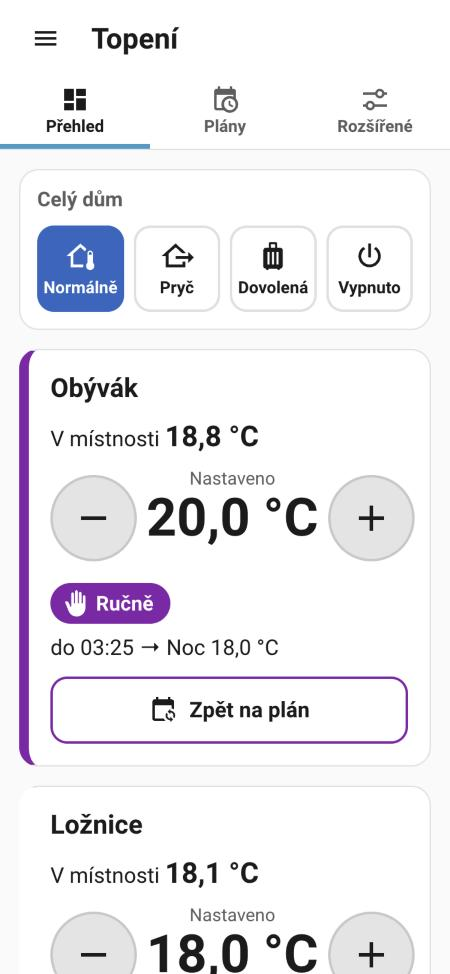
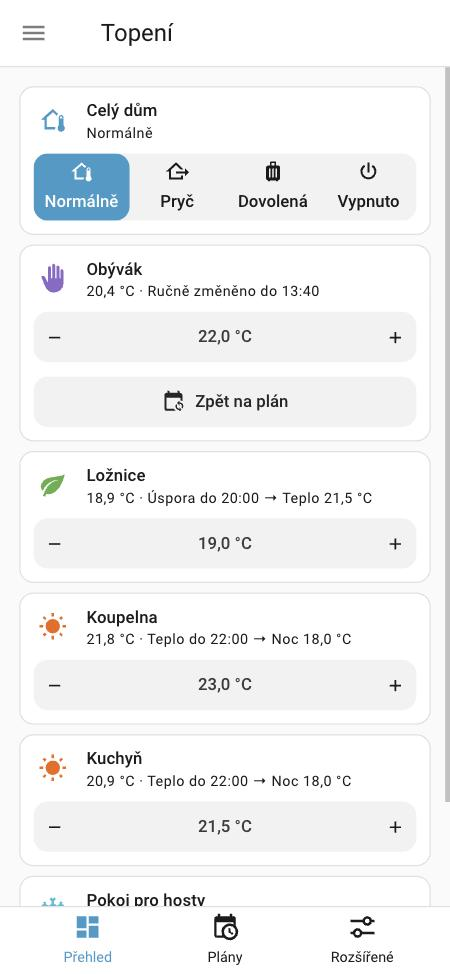
UI step 5: README, screenshots and design notes for the HA look
- New README screenshots (Czech, light theme, phone width) and guide texts
  for the tiles, the problem badge and the Companion app's page zoom.
- Architecture notes record the decisions: HA components, HA's dialog
  manager, the card loader, the element registration, and exact HA sizes
  (a deviation from the spec's 48 px, accepted by the user).
- The dev valves get a fake_trv.set_offline action to show problems.

diff --git a/dev/config/custom_components/fake_trv/climate.py b/dev/config/custom_components/fake_trv/climate.py
@@ -9,8 +9,10 @@ from typing import Any
 from homeassistant.components.climate import ClimateEntity
 from homeassistant.components.climate.const import ClimateEntityFeature, HVACAction, HVACMode
 from homeassistant.const import UnitOfTemperature
-from homeassistant.core import Context, HomeAssistant, callback
-from homeassistant.helpers import area_registry as ar, entity_registry as er
+from homeassistant.core import Context, HomeAssistant, ServiceCall, callback
+import voluptuous as vol
+
+from homeassistant.helpers import area_registry as ar, config_validation as cv, entity_registry as er
 from homeassistant.helpers.entity_platform import AddEntitiesCallback
 from homeassistant.helpers.event import async_call_later, async_track_time_interval
 from homeassistant.helpers.typing import ConfigType, DiscoveryInfoType
@@ -31,6 +33,22 @@ async def async_setup_platform(
             suffix = f"_{index + 1}" if count > 1 else ""
             entities.append(FakeTrv(slug, f"{slug}_hlavice{suffix}"))
     async_add_entities(entities)
+
+    # Simulate a valve that stops answering, e.g. with empty batteries. A domain service,
+    # because HA does not call entity services on unavailable entities.
+    by_id = {entity.entity_id: entity for entity in entities}
+
+    async def set_offline(call: ServiceCall) -> None:
+        for entity_id in call.data["entity_id"]:
+            if entity_id in by_id:
+                by_id[entity_id].set_offline(call.data["offline"])
+
+    hass.services.async_register(
+        DOMAIN,
+        "set_offline",
+        set_offline,
+        schema=vol.Schema({vol.Required("entity_id"): cv.entity_ids, vol.Required("offline"): bool}),
+    )
 
     @callback
     def assign_areas(_now: Any = None) -> None:
@@ -111,6 +129,11 @@ class FakeTrv(ClimateEntity):
             self._attr_target_temperature = value
 
         self._report_later(apply)
+
+    @callback
+    def set_offline(self, offline: bool) -> None:
+        self._attr_available = not offline
+        self.async_write_ha_state()
 
     async def async_set_hvac_mode(self, hvac_mode: HVACMode) -> None:
         def apply() -> None:

diff --git a/README.md b/README.md
@@ -26,6 +26,9 @@ Boiler control, valve positions and temperature sensors of the valves are not to
 
 - Home Assistant 2026.9 or newer.
 - Radiator valves as `climate` entities. Tested with Sonoff TRVZB through Zigbee2MQTT.
+- The panel and the card are built from Home Assistant's own components and look like the
+  rest of Home Assistant. HA changes these components between releases, so after an HA
+  update the panel may need a new release of this integration.
 - Temperatures in the panel, plans, temperature sets and services are always °C. Home
   Assistant itself may use °C or °F; the valves always get the right value.
 
@@ -68,17 +71,17 @@ test mode off.
 
 ## Návod pro každý den (česky)
 
-**Co vidím.** Každá místnost má svou kartu:
+**Co vidím.** Každá místnost má svou dlaždici:
 
-- **V místnosti** je teplota, která v místnosti je teď.
-- Velké číslo je teplota, kterou má místnost mít.
-- Barevný štítek říká, co se děje teď: **Teplo**, **Úspora**, **Noc**, **Pryč**,
+- Pod názvem je teplota v místnosti a co se děje teď a potom, například
+  „20,4 °C · Teplo do 22:00 → Noc 18,0 °C“.
+- Číslo mezi **−** a **+** je teplota, kterou má místnost mít.
+- Barevná ikona vlevo ukazuje režim: **Teplo**, **Úspora**, **Noc**, **Pryč**,
   **Proti mrazu**, **Vypnuto** nebo **Ručně**.
-- Text vedle štítku říká, co přijde potom, například „do 22:00 → Noc 18,0 °C“.
 
 **Chci tepleji nebo chladněji.** Klepněte na **+** nebo **−**. Každé klepnutí je půl stupně.
-Změna platí do další změny v plánu. Karta má pak fialový okraj a štítek **Ručně**.
-Tlačítko **Zpět na plán** změnu hned zruší.
+Změna platí do další změny v plánu. Dlaždice má pak fialovou ikonu ruky a text
+**Ručně změněno**. Tlačítko **Zpět na plán** změnu hned zruší.
 
 **Otočil jsem kolečkem na hlavici.** To je totéž jako **+** nebo **−**. Ostatní hlavice
 v místnosti se nastaví stejně. Po další změně v plánu se vše vrátí samo.
@@ -95,24 +98,31 @@ v místnosti se nastaví stejně. Po další změně v plánu se vše vrátí sa
 Během režimů Pryč, Dovolená a Vypnuto nejde teplota v místnosti měnit. Nejdřív přepněte dům
 na **Normálně**.
 
-**Oranžový vykřičník.** Některá hlavice neodpovídá nebo nepřijala teplotu. Klepněte na
-vykřičník, uvidíte vysvětlení. Nejčastěji jde o vybité baterie.
+**Oranžový vykřičník** na ikoně místnosti: některá hlavice neodpovídá nebo nepřijala
+teplotu. Klepněte na ikonu, uvidíte vysvětlení. Nejčastěji jde o vybité baterie.
 
-**Změna plánu.** Otevřete **Plány**, vyberte plán a klepněte na den. Časy změníte posunutím
-bílých úchytů nebo klepnutím na úsek. **Kopírovat den do…** zkopíruje den na jiné dny.
-Nakonec klepněte na **Uložit**.
+**Změna plánu.** Otevřete **Plány**, u plánu klepněte na **Změnit plán** a pak na den.
+Časy změníte posunutím bílých úchytů nebo klepnutím na úsek. **Kopírovat den do…**
+zkopíruje den na jiné dny. Nakonec klepněte na **Uložit**.
+
+**Větší písmo.** V nastavení aplikace Home Assistant nastavte **Page zoom** (přiblížení
+stránky), například na 125 %. Zvětší se celá aplikace.
 
 ## Everyday guide (English)
 
-- Each room shows the temperature **in the room**, the temperature it is **set to**, what
-  happens now (a coloured label) and what comes next ("until 22:00 → Night 18.0 °C").
+- Each room is a tile: the temperature in the room and what happens now and next
+  ("20.4 °C · Warm until 22:00 → Night 18.0 °C"), the temperature it is **set to** between
+  **−** and **+**, and a coloured icon for the mode.
 - **+** and **−** change the room by half a degree until the next change of the plan.
   **Back to plan** ends the change at once. Turning the knob on a valve does the same.
 - **Whole house**: **Away** for short absences (press **I'm home — Normal** when back),
   **Holiday** with a return date (heating comes back by itself), **Off** for summer,
   **Normal** to follow the plans. In Away, Holiday and Off, room temperatures are fixed.
-- An **orange exclamation mark** means a valve has a problem; tap it for an explanation.
-- **Plans**: tap a day, drag the white handles or tap a part, then **Save**.
+- An **orange exclamation mark** on a room's icon means a valve has a problem; tap the icon
+  for an explanation.
+- **Plans**: tap **Change plan** and a day, drag the white handles or tap a part, then
+  **Save**.
+- **Larger text**: set **Page zoom** in the Companion app settings, for example to 125 %.
 
 ## How it works
 
@@ -178,7 +188,7 @@ The card is loaded automatically. Add **Heating Scheduler** from the card picker
 type: custom:heating-scheduler-card
 room: room_1a2b3c4d   # optional; without it the card shows all rooms
 show_house: true       # optional: the house mode strip
-compact: false         # optional: smaller tiles
+compact: false         # optional: − / + next to the room name
 ```
 
 ## Development
@@ -200,7 +210,9 @@ cd frontend && npm ci && npm run check
 ```
 
 `npm run check` type-checks, runs the frontend tests and builds the bundles into
-`custom_components/heating_scheduler/dist/` (committed, so HACS needs no build step).
+`custom_components/heating_scheduler/dist/` (committed, so HACS needs no build step):
+`heating-scheduler-panel.js` holds the panel and the card, and `heating-scheduler-card.js`
+is the small loader that Home Assistant loads on start.
 
 A local instance with simulated valves lives in `dev/`:
 
@@ -211,6 +223,9 @@ uv run python dev/seed.py
 ```bash
 uv run hass -c dev/config
 ```
+
+The action `fake_trv.set_offline` (`entity_id`, `offline`) takes a simulated valve offline,
+to see how problems are shown.
 
 Design notes: [docs/architecture.md](docs/architecture.md). Original specification:
 [docs/spec.md](docs/spec.md).

diff --git a/docs/architecture.md b/docs/architecture.md
@@ -162,18 +162,42 @@ The configuration has a revision; websocket writes must send the revision they e
 
 ## Frontend
 
-- TypeScript + Lit 3 (no decorators), built with esbuild into `dist/`: an entry for the
-  panel and one for the Lovelace card, with a shared chunk, so custom elements are defined
-  once. The bundles are committed; CI checks that they match the source.
-- The panel is registered with `panel_custom` (`require_admin: false`); the card is loaded
-  with `add_extra_js_url`. URLs carry a hash of the bundles for cache busting.
-- Own components only (native `<dialog>`, native date/time inputs, bundled MDI paths).
+- TypeScript + Lit 3 (no decorators), built with esbuild into `dist/` as two bundles:
+  `heating-scheduler-panel.js` (panel, card, all components) and `heating-scheduler-card.js`
+  (a small card loader). The bundles are committed; CI checks that they match the source.
+- The panel is registered with `panel_custom` (`require_admin: false`, `handle_safe_area:
+  true`); the card loader is loaded with `add_extra_js_url`. URLs carry a hash of the bundles
+  for cache busting.
+- **Card loader (decision, 2026-09-30).** HA's service worker serves an old copy of the page,
+  and so an old card URL, for a while after an update. The loader therefore imports the main
+  bundle by the URL in HA's live panel list, and the card and the panel always run the same
+  code. The loader itself is small and rarely changes.
+- **Element registration.** HA's app installs a scoped custom element registry polyfill; the
+  card loader can run before it. Our elements are defined only after HA has defined its root
+  element (`components/define.ts`); an earlier definition breaks all our elements.
+- **HA look and components (decision, 2026-09-30).** The UI uses HA's own elements wherever
+  HA has one: page layout with tabs (`hass-tabs-subpage`), `ha-card`, tile parts
+  (`ha-tile-*`), `ha-control-select`, `ha-control-number-buttons`, `ha-control-button`,
+  `ha-dialog`, `ha-form` with selectors (entity, area, date, time, select), `ha-select`,
+  `ha-input`, `ha-switch`, `ha-settings-row`, `ha-md-list-item`, `ha-dropdown`, `ha-alert`,
+  `ha-button`, `ha-icon-button`, `ha-svg-icon`. Own elements remain only where HA has none:
+  day bars, week view, the time stepper. HA guarantees none of these to a custom panel; they
+  come with chunks HA loads in the background, and the panel waits for them (`ha.ts`). HA
+  changes its internal elements between releases, so an HA update can require a release of
+  this integration (accepted by the user).
+- Dialogs follow HA's dialog protocol (`showDialog` / `closeDialog` / `dialog-closed`) and
+  are opened through HA's dialog manager, so Back closes them. Messages use HA's toast
+  (`hass-notification`); a valve opens HA's entity dialog (`hass-more-info`).
+- **Sizes (decision, 2026-09-30, deviates from the spec).** Exact HA sizes: 42 px controls
+  and 14 px text, as in HA's tile card. The spec asks for 48 px touch targets; the user
+  accepted HA sizes because the Companion app's page zoom enlarges everything (115 % gives
+  48 px).
 - One websocket subscription per connection (`store.ts`) feeds the panel and every card.
 - Panel strings are bundled (cs, en) and chosen from the user's HA language; Czech is the
   default. Entity, service and error strings use HA translation files.
 - All times are shown in the house's time zone (plans are house wall time).
-- Filled buttons use a fixed dark blue (`--hs-accent`) so white text passes WCAG AA in the
-  default light and dark themes; mode colours are fixed and always come with an icon and a word.
+- Colours are HA theme colours (`--deep-orange-color`, ...); a mode colour always comes with
+  an icon and a word.
 - Pure plan-editing operations live in `frontend/src/schedule/ops.ts` (vitest).
 
 ## Testing
